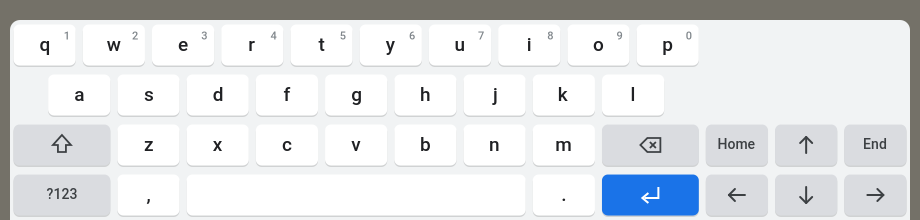
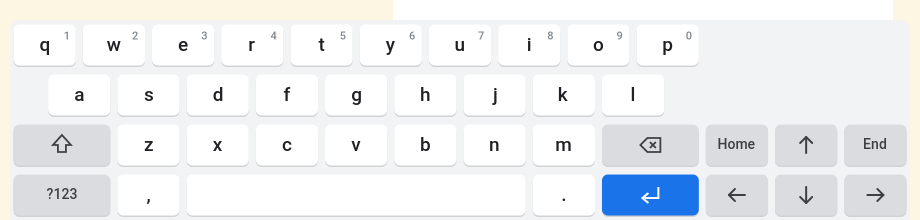
weston: drop the keypad's plus key for Delete
A leading + is not part of any numeric-field convention -- HTML's valid
floating-point number does not permit one, and neither iOS's decimal pad
nor Android's numberDecimal offers the key -- and +5 is just 5. The HMI's
own FilteringTextInputFormatter allow-lists strip it on the way in, so
the key could only ever look broken, which is how it was found.

Delete takes the slot instead. It pairs with the backspace directly above
it, and CentroidX#378 connects XKB_KEY_Delete to the text model's
Delete(), which until now nothing sent.

Screenshots regenerated.

Changed region(s): [[0.0, 0.0, 1.0, 1.0]]

diff --git a/weston/keyboard/keyboard.c b/weston/keyboard/keyboard.c
@@ -99,8 +99,9 @@ enum key_type {
 	keytype_switch,
 	keytype_symbols,
 	keytype_spacer,
-	/* cursor movement; the keysym to tap is on the key itself. Drawn as
-	 * an icon when the label is empty, as text otherwise (Home/End). */
+	/* taps the keysym carried on the key itself: cursor movement, Home,
+	 * End, Delete. Drawn as an icon when the label is empty, as text
+	 * otherwise. */
 	keytype_arrow
 };
 
@@ -206,8 +207,13 @@ static const struct key normal_keys[] = {
  * Numeric keypad: 14 grid units of PANEL_WIDTH/14 px, 4 rows — the same
  * panel footprint as the alpha layout. The keypad is the leftmost 8
  * units, flush with the edge, and the navigation cluster takes the 6 on
- * the right. Phone-style digit order; backspace / minus / plus down the
+ * the right. Phone-style digit order; backspace / minus / delete down the
  * keypad's right; double-width 0, decimal point, Enter along the bottom.
+ *
+ * No plus key: a leading + is not part of any numeric-field convention
+ * (HTML's valid floating-point number does not permit one, and neither
+ * iOS's decimal pad nor Android's numberDecimal offers the key), and the
+ * HMI's own filters strip it, so it could only ever look broken.
  */
 static const struct key numeric_keys[] = {
 	{ keytype_default, "1", "1", "1", 2},
@@ -225,7 +231,7 @@ static const struct key numeric_keys[] = {
 	{ keytype_default, "7", "7", "7", 2},
 	{ keytype_default, "8", "8", "8", 2},
 	{ keytype_default, "9", "9", "9", 2},
-	{ keytype_default, "+", "+", "+", 2},
+	{ keytype_arrow, "Del", "Del", "Del", 2, NULL, XKB_KEY_Delete},
 	{ keytype_arrow, "Home", "Home", "Home", 2, NULL, XKB_KEY_Home},
 	{ keytype_arrow, "", "", "", 2, NULL, XKB_KEY_Up},
 	{ keytype_arrow, "End", "End", "End", 2, NULL, XKB_KEY_End},
